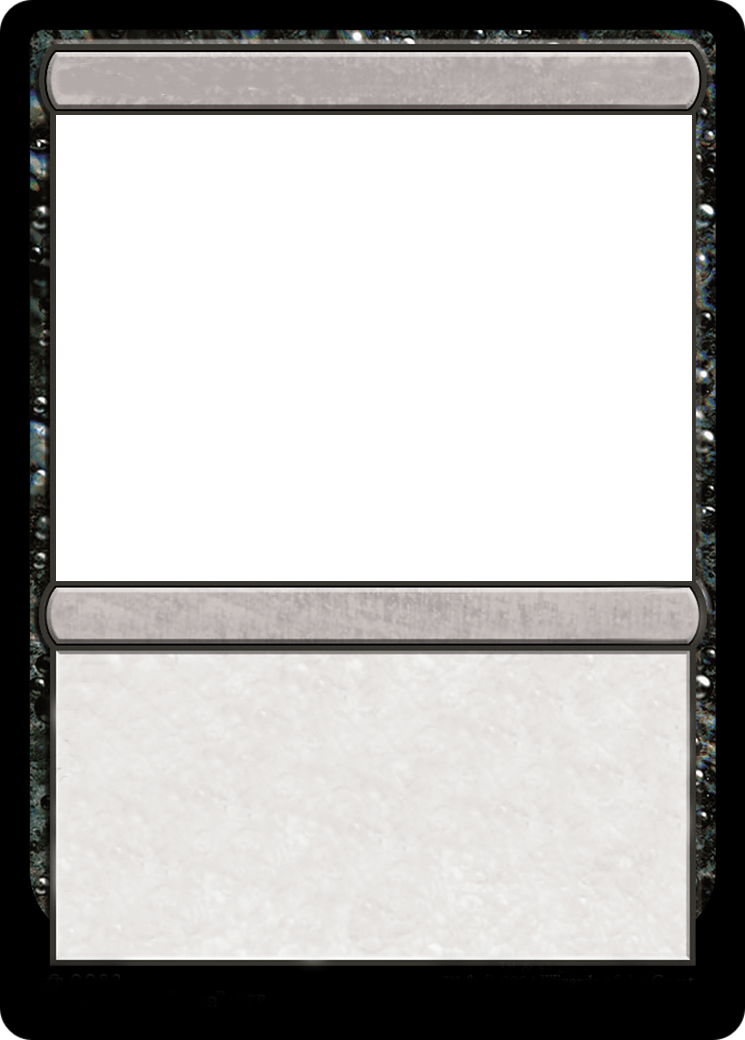
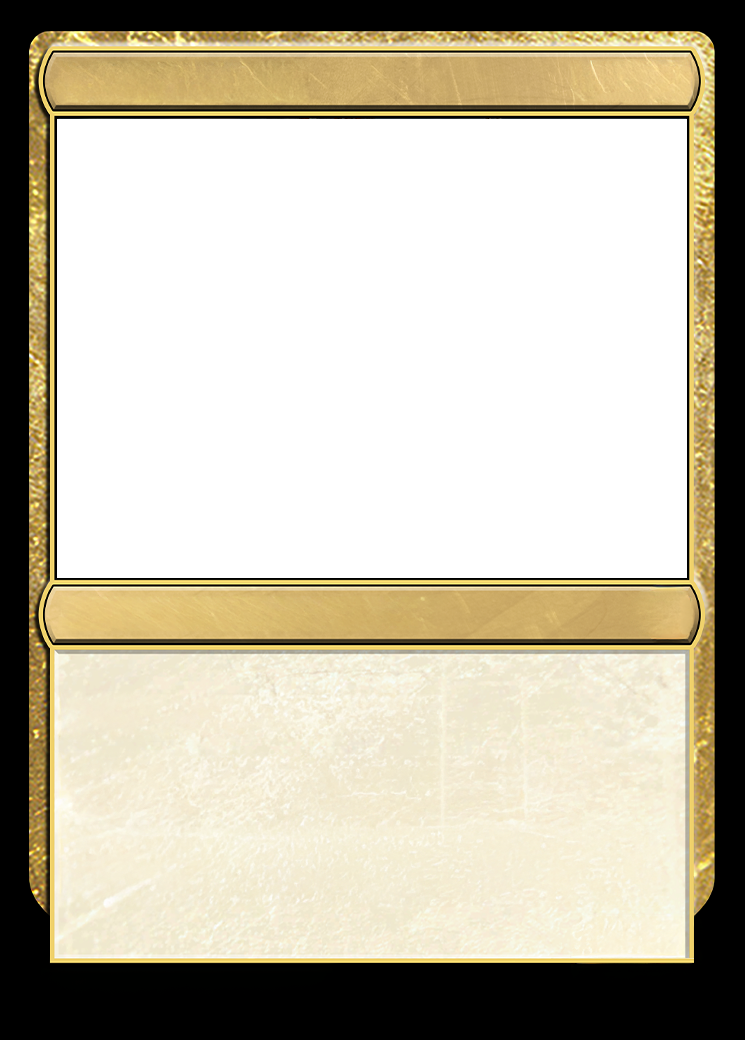
feat: implement Scryfall API service with autocomplete and card retrieval methods & legendary frames

diff --git a/src/components/Controls/CardSelector.tsx b/src/components/Controls/CardSelector.tsx
@@ -1,31 +1,54 @@
-import { useState, useMemo, useCallback, useRef, useEffect } from 'react';
+import { useState, useCallback, useRef, useEffect } from 'react';
 import { ScryfallCard } from '../../types';
+import { scryfallApi } from '../../services/scryfallApi';
 import styles from './Controls.module.css';
 
 interface CardSelectorProps {
-  cards: ScryfallCard[];
   selectedCard: ScryfallCard | null;
   onSelect: (card: ScryfallCard) => void;
 }
 
-export function CardSelector({ cards, selectedCard, onSelect }: CardSelectorProps) {
+export function CardSelector({ selectedCard, onSelect }: CardSelectorProps) {
   const [query, setQuery] = useState('');
+  const [suggestions, setSuggestions] = useState<string[]>([]);
   const [isOpen, setIsOpen] = useState(false);
+  const [isLoading, setIsLoading] = useState(false);
+  const [skipNextSearch, setSkipNextSearch] = useState(false);
   const containerRef = useRef<HTMLDivElement>(null);
 
-  const filteredCards = useMemo(() => {
-    if (!query.trim()) return [];
+  // Debounced autocomplete search
+  useEffect(() => {
+    if (skipNextSearch) {
+      setSkipNextSearch(false);
+      return;
+    }
 
-    const searchTerm = query.toLowerCase();
-    return cards
-      .filter(card => card.name.toLowerCase().includes(searchTerm))
-      .slice(0, 50);
-  }, [cards, query]);
+    if (query.length < 2) {
+      setSuggestions([]);
+      return;
+    }
 
-  const handleSelect = useCallback((card: ScryfallCard) => {
-    onSelect(card);
-    setQuery(card.name);
+    const timer = setTimeout(async () => {
+      setIsLoading(true);
+      const results = await scryfallApi.autocomplete(query);
+      setSuggestions(results);
+      setIsLoading(false);
+    }, 300);
+
+    return () => clearTimeout(timer);
+  }, [query, skipNextSearch]);
+
+  const handleSelect = useCallback(async (name: string) => {
+    setIsLoading(true);
+    const card = await scryfallApi.getCardByName(name);
+    if (card) {
+      onSelect(card);
+      setSkipNextSearch(true);
+      setQuery(card.name);
+    }
+    setIsLoading(false);
     setIsOpen(false);
+    setSuggestions([]);
   }, [onSelect]);
 
   const handleInputChange = useCallback((e: React.ChangeEvent<HTMLInputElement>) => {
@@ -45,6 +68,7 @@ export function CardSelector({ cards, selectedCard, onSelect }: CardSelectorProp
 
   useEffect(() => {
     if (selectedCard) {
+      setSkipNextSearch(true);
       setQuery(selectedCard.name);
     }
   }, [selectedCard]);
@@ -53,24 +77,26 @@ export function CardSelector({ cards, selectedCard, onSelect }: CardSelectorProp
     <div className={styles.controlGroup}>
       <label className={styles.label}>Select Card</label>
       <div className={styles.selectorContainer} ref={containerRef}>
-        <input
-          type="text"
-          className={styles.input}
-          value={query}
-          onChange={handleInputChange}
-          onFocus={() => query && setIsOpen(true)}
-          placeholder="Search cards..."
-        />
-        {isOpen && filteredCards.length > 0 && (
+        <div className={styles.inputWrapper}>
+          <input
+            type="text"
+            className={`${styles.input} ${isLoading ? styles.inputWithSpinner : ''}`}
+            value={query}
+            onChange={handleInputChange}
+            onFocus={() => query.length >= 2 && setIsOpen(true)}
+            placeholder="Search cards..."
+          />
+          {isLoading && <div className={styles.spinner} />}
+        </div>
+        {isOpen && suggestions.length > 0 && !isLoading && (
           <ul className={styles.dropdown}>
-            {filteredCards.map(card => (
+            {suggestions.map(name => (
               <li
-                key={card.id}
+                key={name}
                 className={styles.option}
-                onClick={() => handleSelect(card)}
+                onClick={() => handleSelect(name)}
               >
-                <span className={styles.cardName}>{card.name}</span>
-                <span className={styles.cardType}>{card.type_line}</span>
+                <span className={styles.cardName}>{name}</span>
               </li>
             ))}
           </ul>

diff --git a/src/services/scryfallApi.ts b/src/services/scryfallApi.ts
@@ -1,0 +1,80 @@
+import { ScryfallCard } from '../types';
+
+const BASE_URL = 'https://api.scryfall.com';
+
+interface AutocompleteResponse {
+  object: 'catalog';
+  total_values: number;
+  data: string[];
+}
+
+class ScryfallApi {
+  private lastRequestTime = 0;
+  private minRequestInterval = 100; // 100ms between requests per Scryfall guidelines
+
+  private async throttledFetch(url: string): Promise<Response> {
+    const now = Date.now();
+    const timeSinceLastRequest = now - this.lastRequestTime;
+
+    if (timeSinceLastRequest < this.minRequestInterval) {
+      await new Promise(resolve =>
+        setTimeout(resolve, this.minRequestInterval - timeSinceLastRequest)
+      );
+    }
+
+    this.lastRequestTime = Date.now();
+
+    return fetch(url, {
+      headers: {
+        'Accept': 'application/json',
+      },
+    });
+  }
+
+  async autocomplete(query: string): Promise<string[]> {
+    if (query.length < 2) return [];
+
+    try {
+      const response = await this.throttledFetch(
+        `${BASE_URL}/cards/autocomplete?q=${encodeURIComponent(query)}`
+      );
+
+      if (!response.ok) return [];
+
+      const data: AutocompleteResponse = await response.json();
+      return data.data;
+    } catch (error) {
+      console.error('Autocomplete error:', error);
+      return [];
+    }
+  }
+
+  async getCardByName(name: string): Promise<ScryfallCard | null> {
+    try {
+      // Try exact match first
+      const response = await this.throttledFetch(
+        `${BASE_URL}/cards/named?exact=${encodeURIComponent(name)}`
+      );
+
+      if (response.ok) {
+        return response.json();
+      }
+
+      // Fall back to fuzzy match
+      const fuzzyResponse = await this.throttledFetch(
+        `${BASE_URL}/cards/named?fuzzy=${encodeURIComponent(name)}`
+      );
+
+      if (fuzzyResponse.ok) {
+        return fuzzyResponse.json();
+      }
+
+      return null;
+    } catch (error) {
+      console.error('Get card by name error:', error);
+      return null;
+    }
+  }
+}
+
+export const scryfallApi = new ScryfallApi();

diff --git a/src/components/CardBuilder/CardBuilder.tsx b/src/components/CardBuilder/CardBuilder.tsx
@@ -1,5 +1,5 @@
 import { useRef } from 'react';
-import { ScryfallCard, BorderConfig, BackgroundsData, SymbolsData } from '../../types';
+import { BorderConfig, BackgroundsData, SymbolsData } from '../../types';
 import { useCardBuilder } from '../../hooks';
 import { CardPreview, CardCanvasHandle } from '../CardPreview';
 import { CardSelector, BorderSelector, BackgroundSelector, DpiSelector } from '../Controls';
@@ -7,13 +7,12 @@ import styles from './CardBuilder.module.css';
 import controlStyles from '../Controls/Controls.module.css';
 
 interface CardBuilderProps {
-  cards: ScryfallCard[];
   borders: BorderConfig[];
   backgrounds: BackgroundsData;
   symbols: SymbolsData;
 }
 
-export function CardBuilder({ cards, borders, backgrounds, symbols }: CardBuilderProps) {
+export function CardBuilder({ borders, backgrounds, symbols }: CardBuilderProps) {
   const canvasRef = useRef<CardCanvasHandle>(null);
 
   const {
@@ -26,7 +25,7 @@ export function CardBuilder({ cards, borders, backgrounds, symbols }: CardBuilde
     selectBorder,
     selectBackground,
     setDpi,
-  } = useCardBuilder(cards, borders, backgrounds);
+  } = useCardBuilder(borders, backgrounds);
 
   const handleDownload = () => {
     canvasRef.current?.download();
@@ -48,7 +47,6 @@ export function CardBuilder({ cards, borders, backgrounds, symbols }: CardBuilde
       <div className={styles.controlsSection}>
         <div className={styles.controlPanel}>
           <CardSelector
-            cards={cards}
             selectedCard={selectedCard}
             onSelect={selectCard}
           />

diff --git a/src/App.tsx b/src/App.tsx
@@ -1,20 +1,19 @@
-import { useCards, useBorders, useBackgrounds, useSymbols } from './hooks';
+import { useBorders, useBackgrounds, useSymbols } from './hooks';
 import { CardBuilder } from './components/CardBuilder';
 import styles from './App.module.css';
 
 function App() {
-  const { cards, loading: cardsLoading, error: cardsError } = useCards();
   const { borders, loading: bordersLoading, error: bordersError } = useBorders();
   const { backgrounds, loading: backgroundsLoading, error: backgroundsError } = useBackgrounds();
   const { symbols, loading: symbolsLoading, error: symbolsError } = useSymbols();
 
-  const loading = cardsLoading || bordersLoading || backgroundsLoading || symbolsLoading;
-  const error = cardsError || bordersError || backgroundsError || symbolsError;
+  const loading = bordersLoading || backgroundsLoading || symbolsLoading;
+  const error = bordersError || backgroundsError || symbolsError;
 
   if (loading) {
     return (
       <div className={styles.app}>
-        <div className={styles.loading}>Loading card data...</div>
+        <div className={styles.loading}>Loading data...</div>
       </div>
     );
   }
@@ -36,7 +35,6 @@ function App() {
         <h1 className={styles.title}>MTG Card Builder</h1>
       </header>
       <CardBuilder
-        cards={cards}
         borders={borders}
         backgrounds={backgrounds}
         symbols={symbols}

diff --git a/src/hooks/useCardBuilder.ts b/src/hooks/useCardBuilder.ts
@@ -2,19 +2,13 @@ import { useState, useMemo, useCallback } from 'react';
 import { ScryfallCard, BorderConfig, BackgroundImage, BackgroundsData } from '../types';
 
 export function useCardBuilder(
-  cards: ScryfallCard[],
   borders: BorderConfig[],
   backgrounds: BackgroundsData
 ) {
-  const [selectedCardId, setSelectedCardId] = useState<string | null>(null);
+  const [selectedCard, setSelectedCard] = useState<ScryfallCard | null>(null);
   const [selectedBorderId, setSelectedBorderId] = useState<string | null>(null);
   const [selectedBackgroundIndex, setSelectedBackgroundIndex] = useState<number>(0);
   const [dpi, setDpi] = useState<number>(300);
-
-  const selectedCard = useMemo(
-    () => cards.find(c => c.id === selectedCardId) || null,
-    [cards, selectedCardId]
-  );
 
   const selectedBorder = useMemo(
     () => borders.find(b => b.id === selectedBorderId) || borders[0] || null,
@@ -48,7 +42,7 @@ export function useCardBuilder(
   );
 
   const selectCard = useCallback((card: ScryfallCard) => {
-    setSelectedCardId(card.id);
+    setSelectedCard(card);
     setSelectedBackgroundIndex(0);
   }, []);
 

diff --git a/src/utils/canvasRenderer.ts b/src/utils/canvasRenderer.ts
@@ -649,6 +649,21 @@ export async function renderCard(
     console.warn("Failed to load border image:", e);
   }
 
+  // Draw legendary overlay if card has legendary frame effect
+  if (card.frame_effects?.includes("legendary")) {
+    const legendaryKey = `${borderColor}-Legendary`;
+    const legendaryUrl = border.images[legendaryKey];
+
+    if (legendaryUrl) {
+      try {
+        const legendaryImage = await loadImage(proxyImageUrl(legendaryUrl));
+        ctx.drawImage(legendaryImage, 0, 0, width, height);
+      } catch (e) {
+        console.warn("Failed to load legendary overlay:", e);
+      }
+    }
+  }
+
   // Draw card name
   const namePos = getScaledPosition(
     border.textPositions.name,
@@ -717,11 +732,6 @@ export async function renderCard(
       height,
       scaleFactor,
     );
-
-    // DEBUG: Draw rectangle around oracle text box
-    ctx.strokeStyle = "red";
-    ctx.lineWidth = 2;
-    ctx.strokeRect(oraclePos.x, oraclePos.y, oraclePos.width, oraclePos.height);
 
     const flavorPos = hasFlavorText
       ? getScaledPosition(

diff --git a/src/components/Controls/Controls.module.css b/src/components/Controls/Controls.module.css
@@ -181,3 +181,30 @@
   cursor: not-allowed;
   transform: none;
 }
+
+.inputWrapper {
+  position: relative;
+  display: flex;
+  align-items: center;
+}
+
+.inputWithSpinner {
+  padding-right: 2.5rem;
+}
+
+.spinner {
+  position: absolute;
+  right: 0.75rem;
+  width: 1rem;
+  height: 1rem;
+  border: 2px solid #2a3f5f;
+  border-top-color: #4a90d9;
+  border-radius: 50%;
+  animation: spin 0.8s linear infinite;
+}
+
+@keyframes spin {
+  to {
+    transform: rotate(360deg);
+  }
+}

diff --git a/src/types/card.ts b/src/types/card.ts
@@ -25,6 +25,7 @@ export interface ScryfallCard {
   artist?: string;
   set_name?: string;
   rarity?: 'common' | 'uncommon' | 'rare' | 'mythic';
+  frame_effects?: string[];
 }
 
 export type ManaSymbol = ManaColor | 'C' | 'T' | 'X' | string;

diff --git a/src/hooks/index.ts b/src/hooks/index.ts
@@ -1,4 +1,3 @@
-export { useCards } from './useCards';
 export { useBorders } from './useBorders';
 export { useBackgrounds } from './useBackgrounds';
 export { useCardBuilder } from './useCardBuilder';

diff --git a/src/types/border.ts b/src/types/border.ts
@@ -27,6 +27,7 @@ export interface BorderColorImages {
   G: string;
   C: string;
   M?: string;
+  [key: string]: string | undefined;
 }
 
 export interface ManaSymbolPaths {
